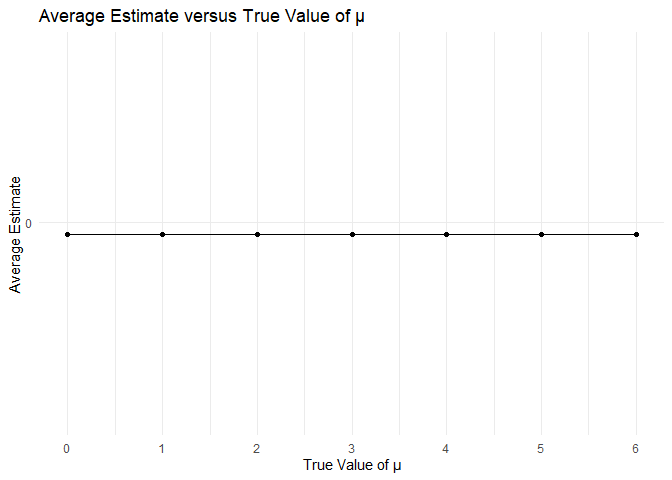
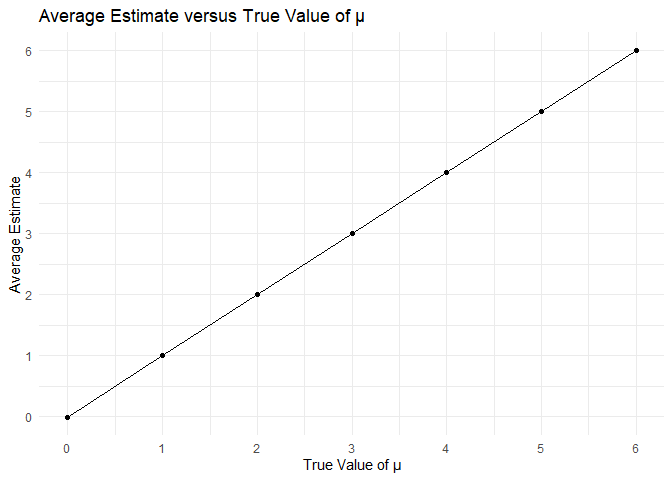
correcting plots

diff --git a/p8105_hw5_yl5508.md b/p8105_hw5_yl5508.md
@@ -196,7 +196,7 @@ sample = function(ntest, mu) {
 }
 
 t_test = function(sample, mu){
-  res = t.test(x= sample, mu = mu, alternative = "two.sided", conf.level = 0.95) |>
+  res = t.test(x = sample, mu = mu, alternative = "two.sided", conf.level = 0.95) |>
       broom::tidy() |>
       select(estimate, p.value)
   res
@@ -221,22 +221,22 @@ mu_0_outcome
     ## # A tibble: 5,000 × 4
     ##       mu  iter estimate p_value
     ##    <dbl> <int>    <dbl>   <dbl>
-    ##  1     0     1  -0.160    0.471
-    ##  2     0     2  -0.0103   0.954
-    ##  3     0     3  -0.0239   0.874
-    ##  4     0     4  -0.0233   0.885
-    ##  5     0     5  -0.257    0.160
-    ##  6     0     6  -0.233    0.139
-    ##  7     0     7   0.191    0.354
-    ##  8     0     8  -0.0652   0.716
-    ##  9     0     9   0.0507   0.806
-    ## 10     0    10   0.169    0.380
+    ##  1     0     1  0.00646   0.974
+    ##  2     0     2  0.222     0.332
+    ##  3     0     3 -0.255     0.104
+    ##  4     0     4 -0.0854    0.643
+    ##  5     0     5 -0.0139    0.938
+    ##  6     0     6 -0.117     0.476
+    ##  7     0     7 -0.138     0.259
+    ##  8     0     8  0.136     0.373
+    ##  9     0     9 -0.222     0.214
+    ## 10     0    10 -0.178     0.295
     ## # ℹ 4,990 more rows
 
 ``` r
 mu_1to6 = tibble()
 for (i in 1:6) {
-  res = map2(x_sample, i, \(x, y) t_test(sample = x, mu = y))
+  res = map2(sample(5000, i), i, \(x, y) t_test(sample = x, mu = y))
   result =
     tibble(res) |>
     unnest(res) |>
@@ -255,16 +255,16 @@ mu_0to6
     ## # A tibble: 35,000 × 4
     ##       mu  iter estimate p_value
     ##    <dbl> <int>    <dbl>   <dbl>
-    ##  1     0     1  -0.160    0.471
-    ##  2     0     2  -0.0103   0.954
-    ##  3     0     3  -0.0239   0.874
-    ##  4     0     4  -0.0233   0.885
-    ##  5     0     5  -0.257    0.160
-    ##  6     0     6  -0.233    0.139
-    ##  7     0     7   0.191    0.354
-    ##  8     0     8  -0.0652   0.716
-    ##  9     0     9   0.0507   0.806
-    ## 10     0    10   0.169    0.380
+    ##  1     0     1  0.00646   0.974
+    ##  2     0     2  0.222     0.332
+    ##  3     0     3 -0.255     0.104
+    ##  4     0     4 -0.0854    0.643
+    ##  5     0     5 -0.0139    0.938
+    ##  6     0     6 -0.117     0.476
+    ##  7     0     7 -0.138     0.259
+    ##  8     0     8  0.136     0.373
+    ##  9     0     9 -0.222     0.214
+    ## 10     0    10 -0.178     0.295
     ## # ℹ 34,990 more rows
 
 ``` r
